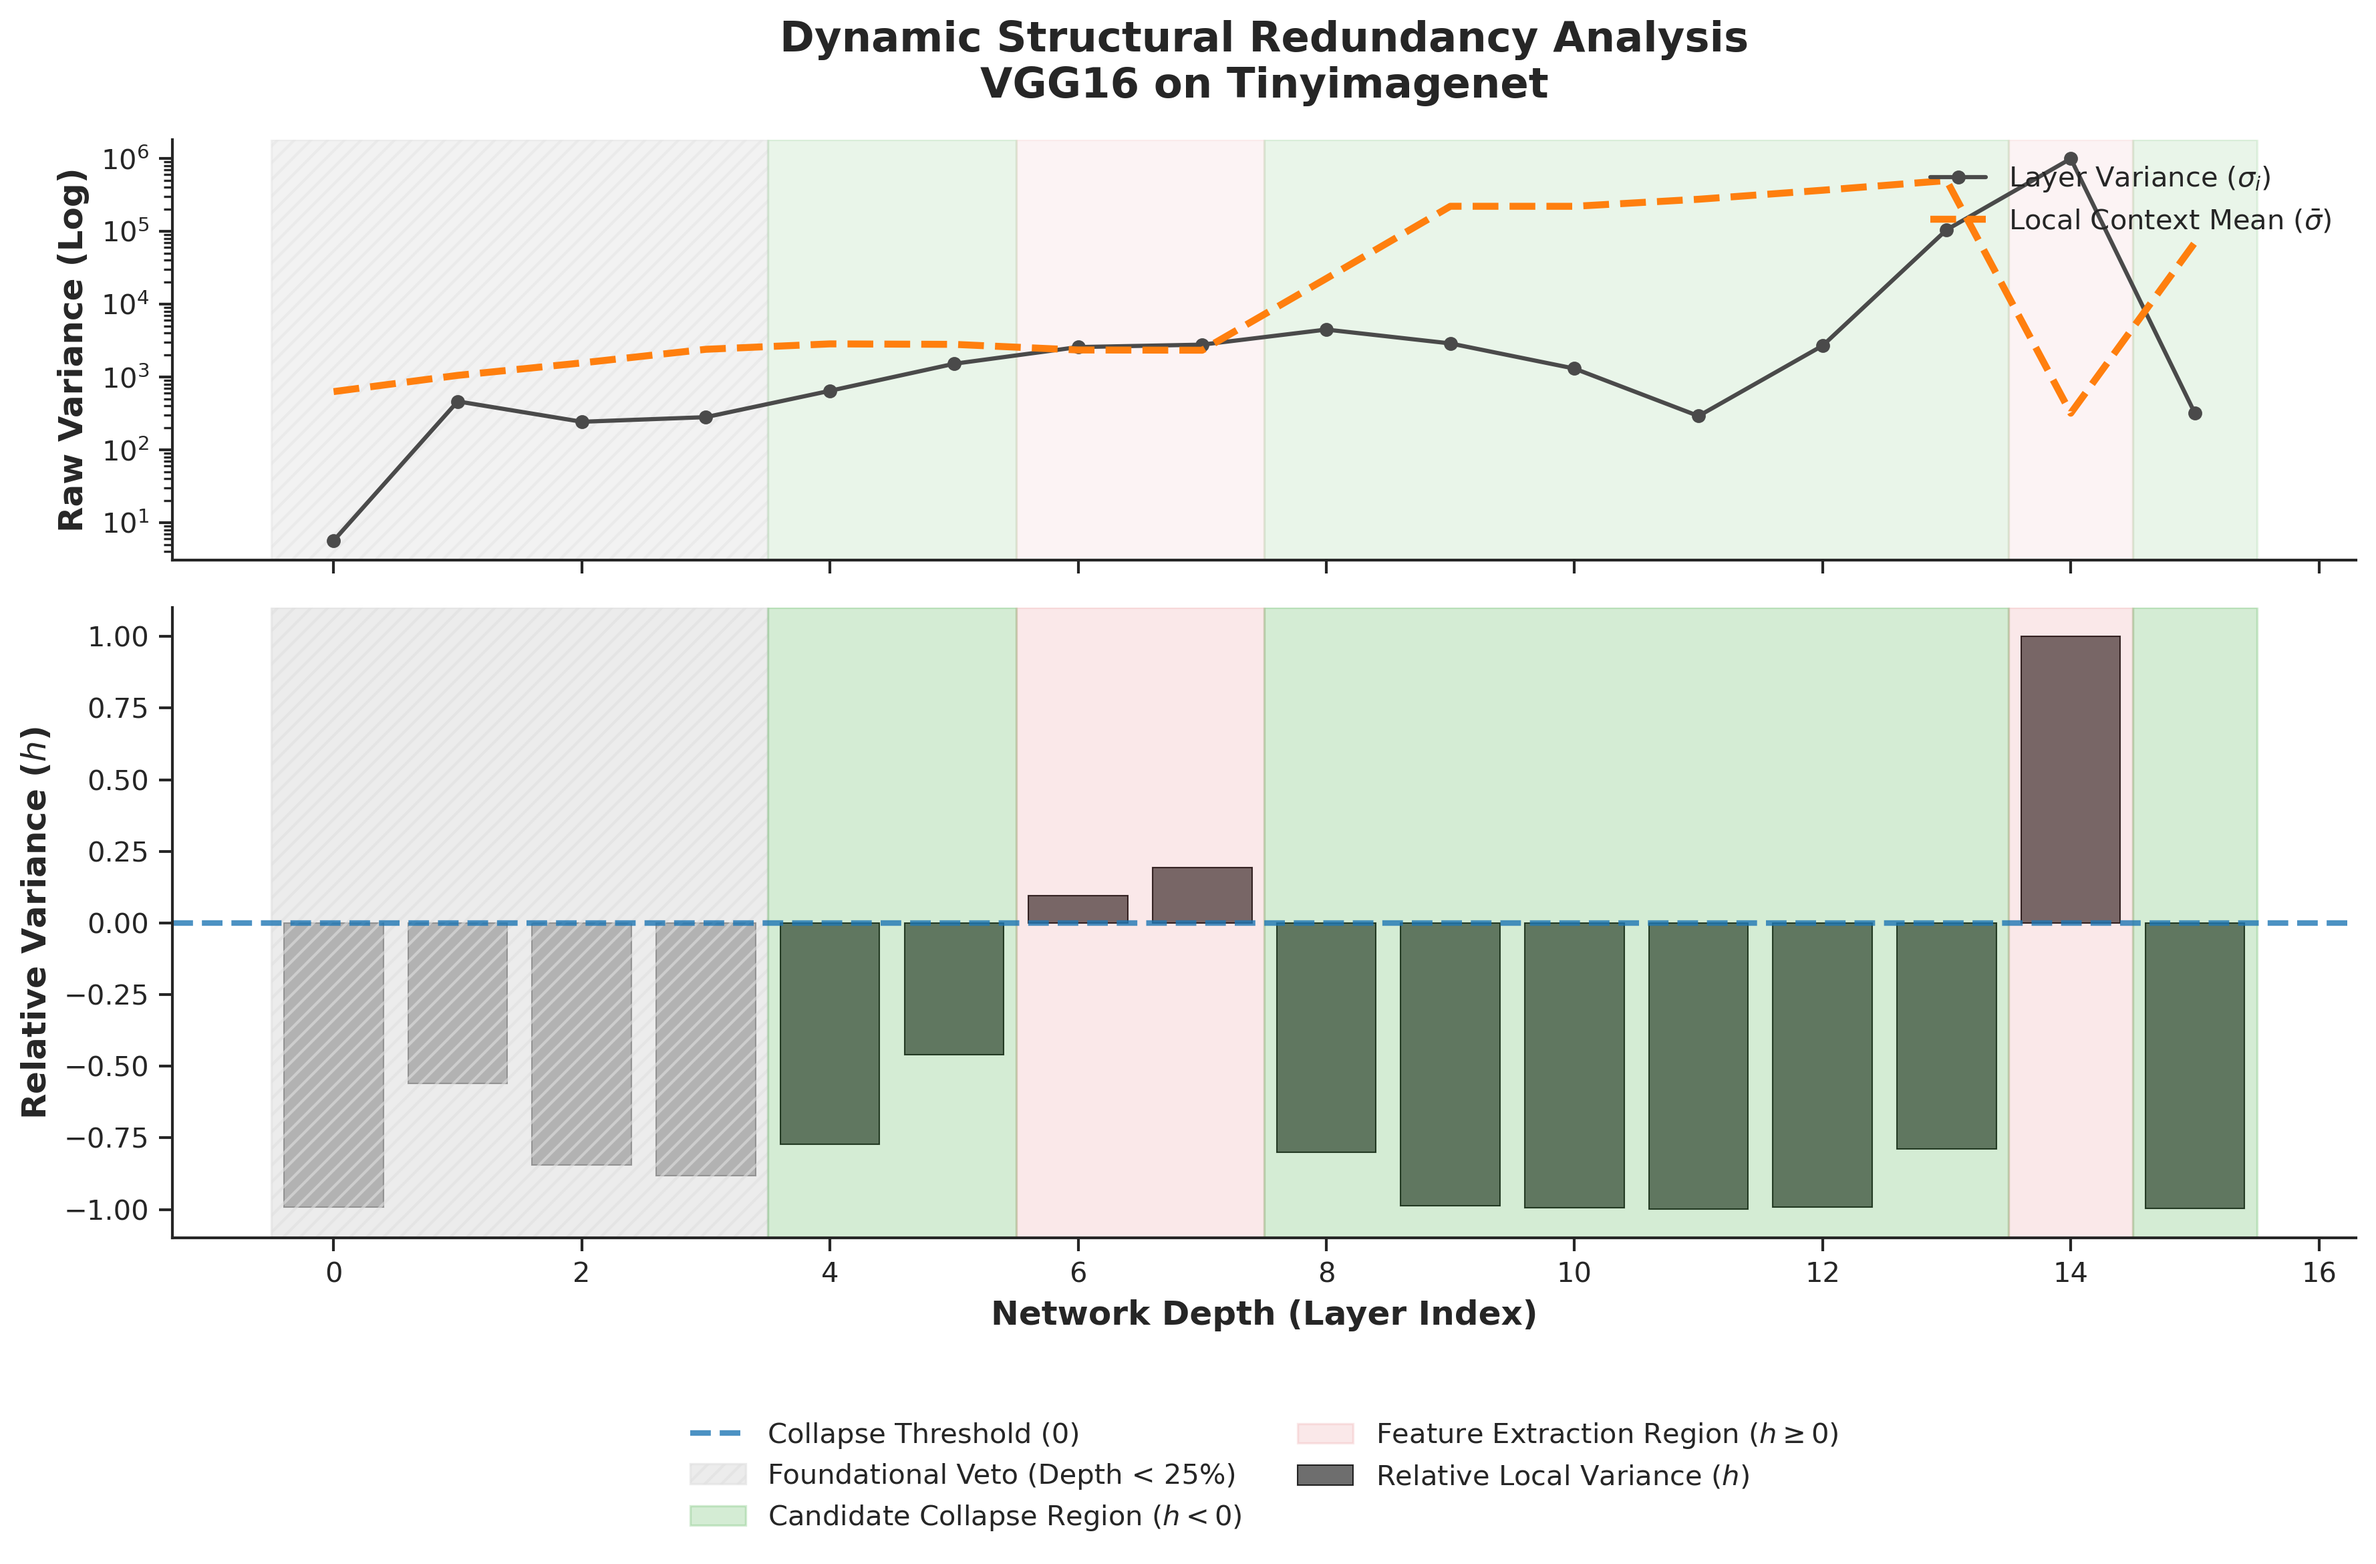
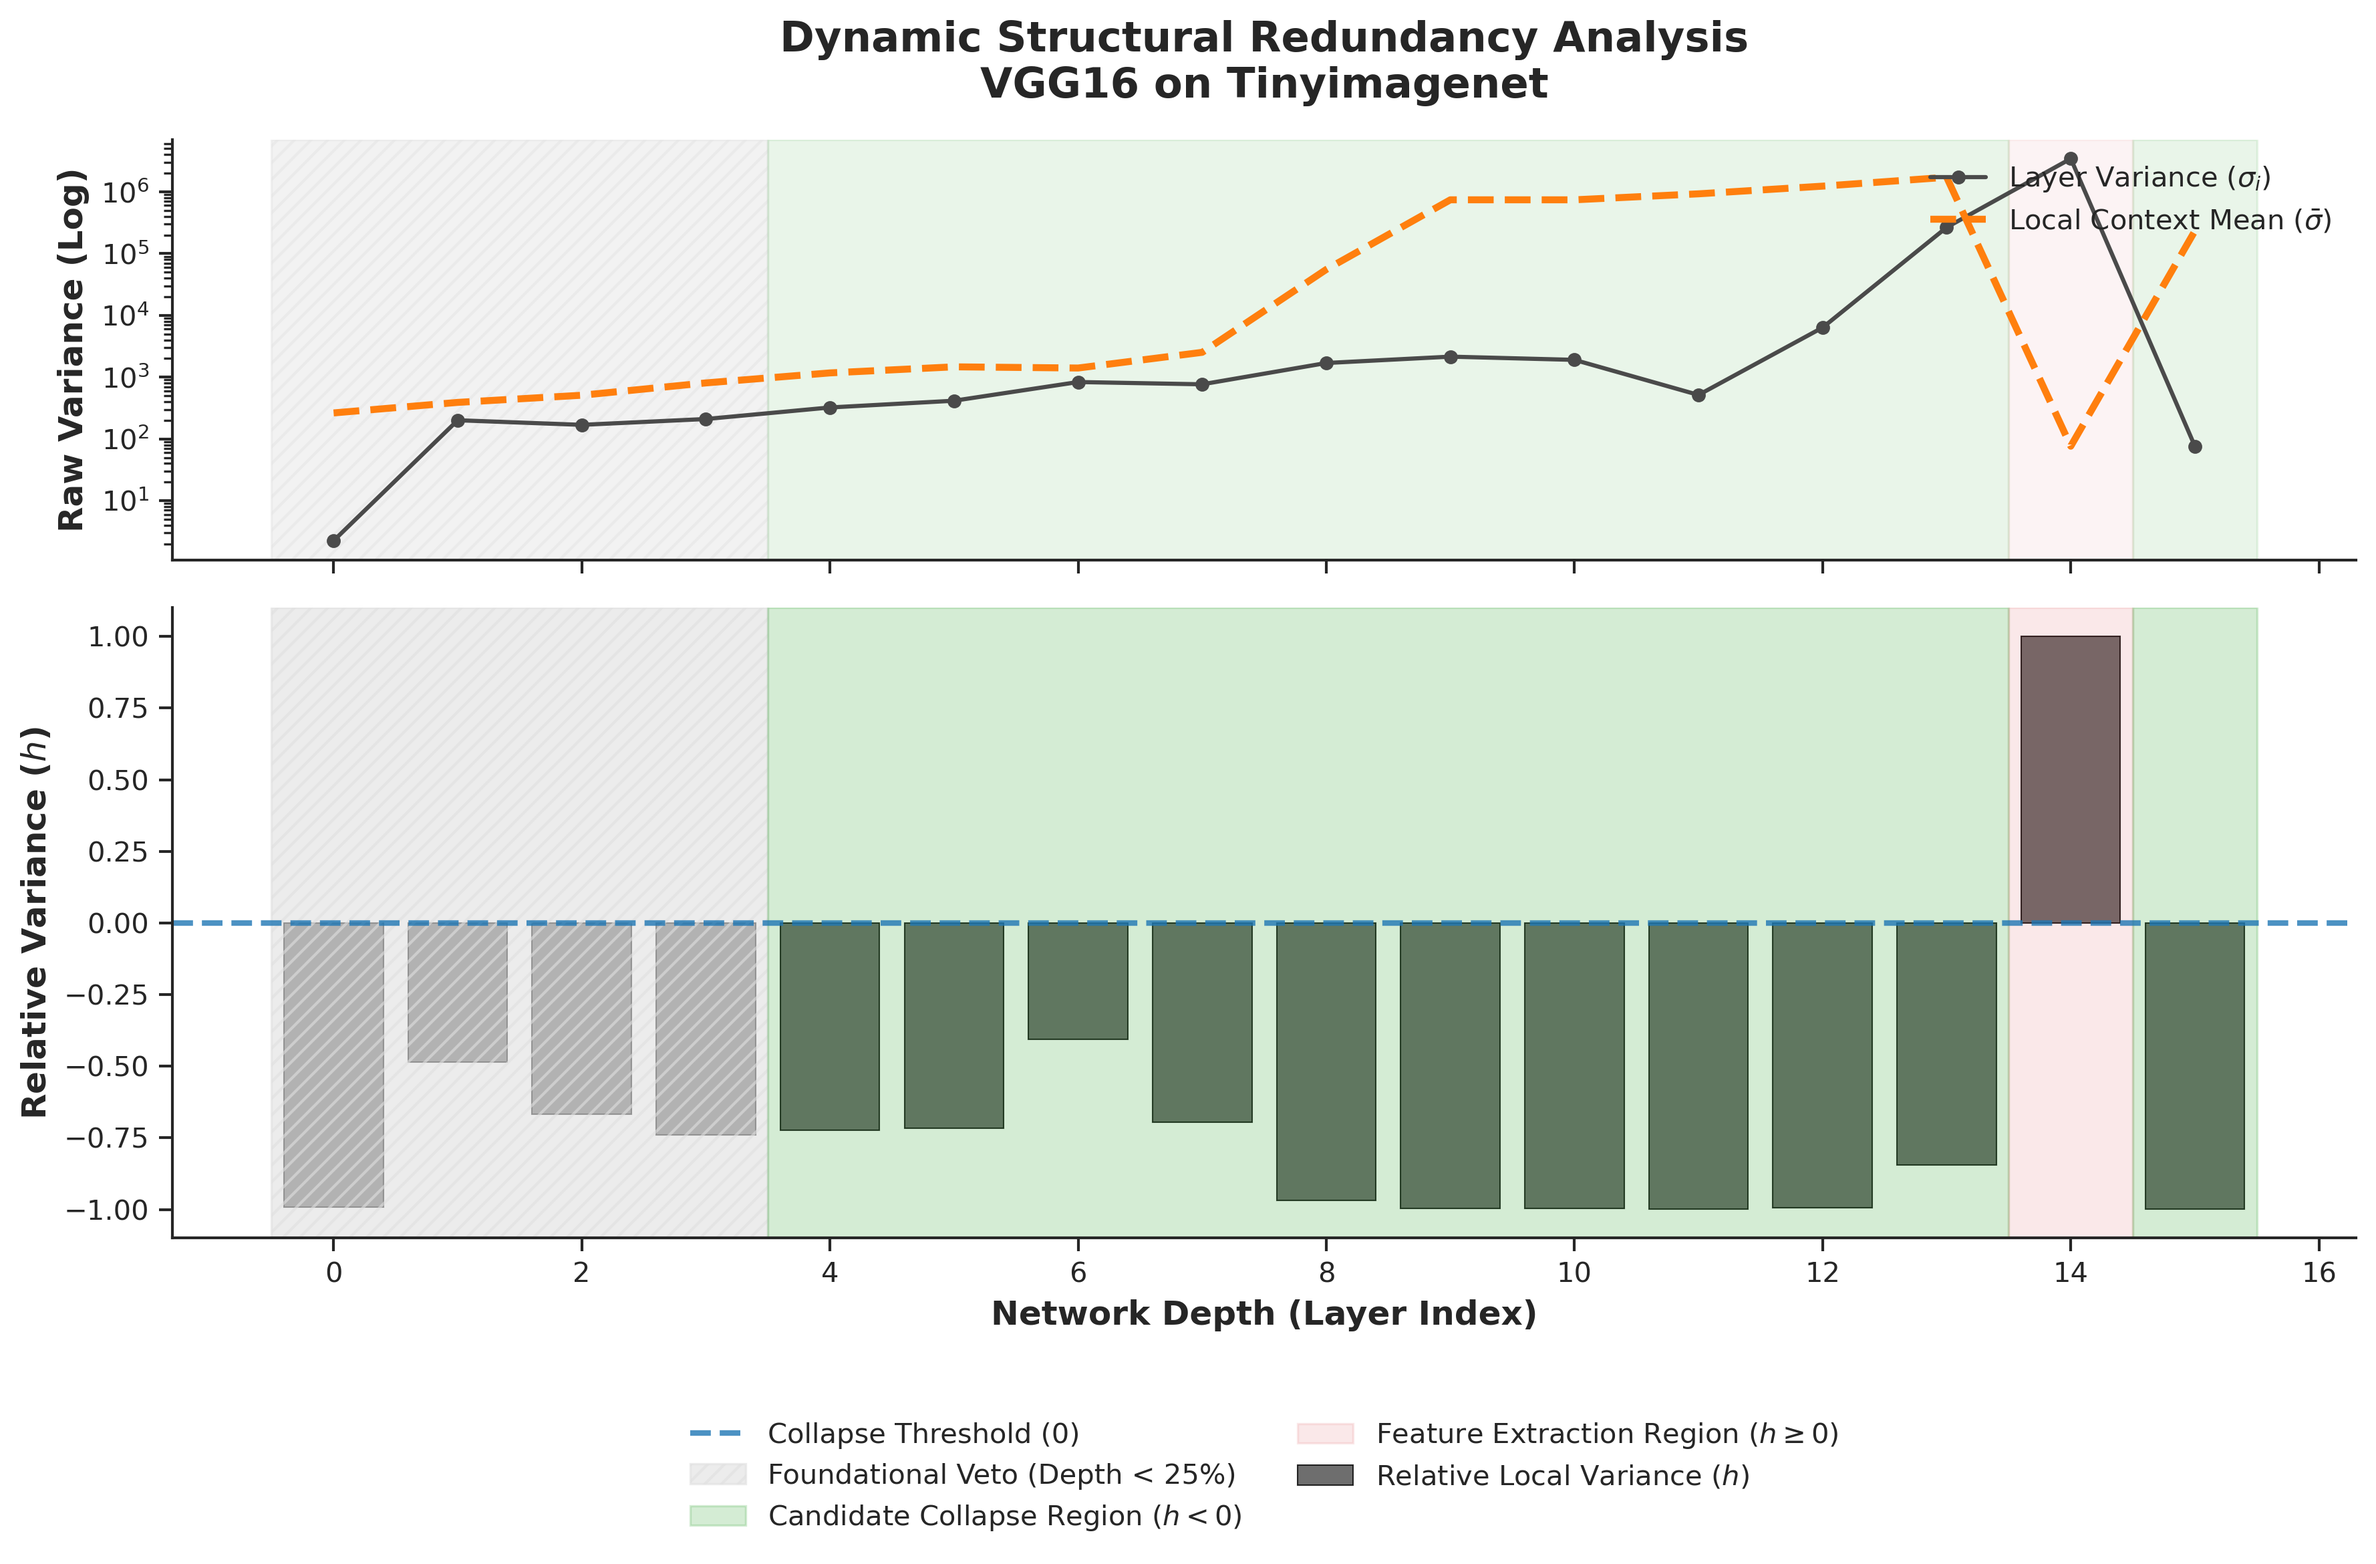
update

diff --git a/manuscript/Tranfer/transfer.py b/manuscript/Tranfer/transfer.py
@@ -150,7 +150,7 @@ def calculate_bav_states(variances, veto_fraction=0.25):
     states = []
     num_layers = len(variances)
     veto_idx = int(num_layers * veto_fraction)
-    window_size = 5
+    window_size = 3
     
     for i, sigma_i in enumerate(variances):
         # Try to look ahead by window_size
